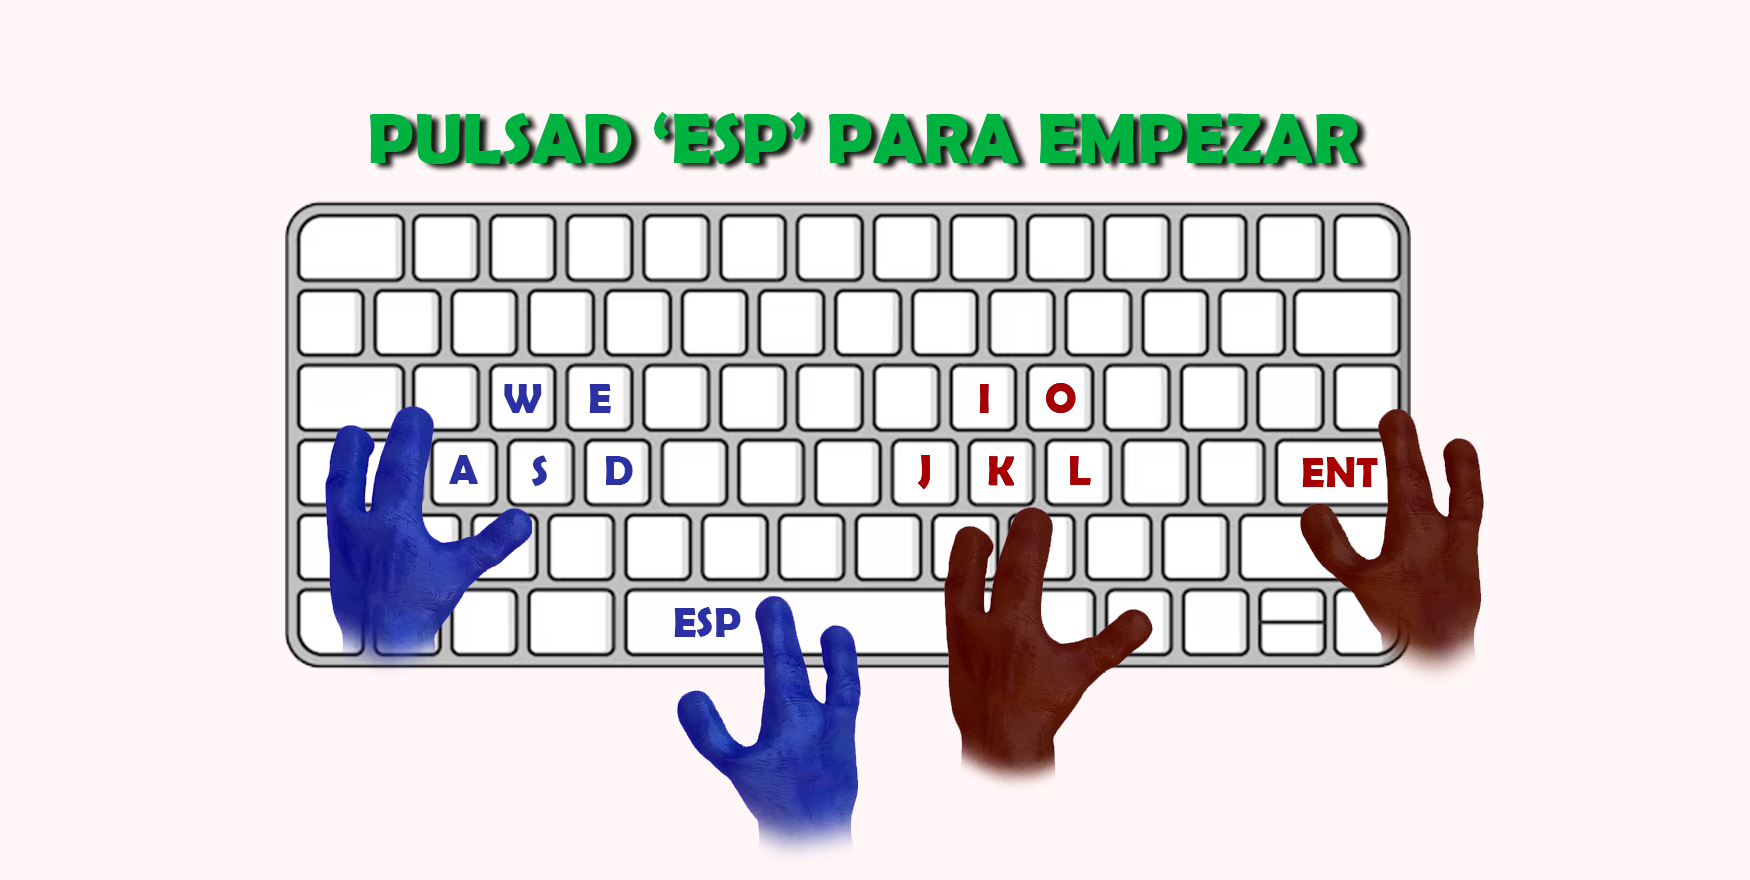
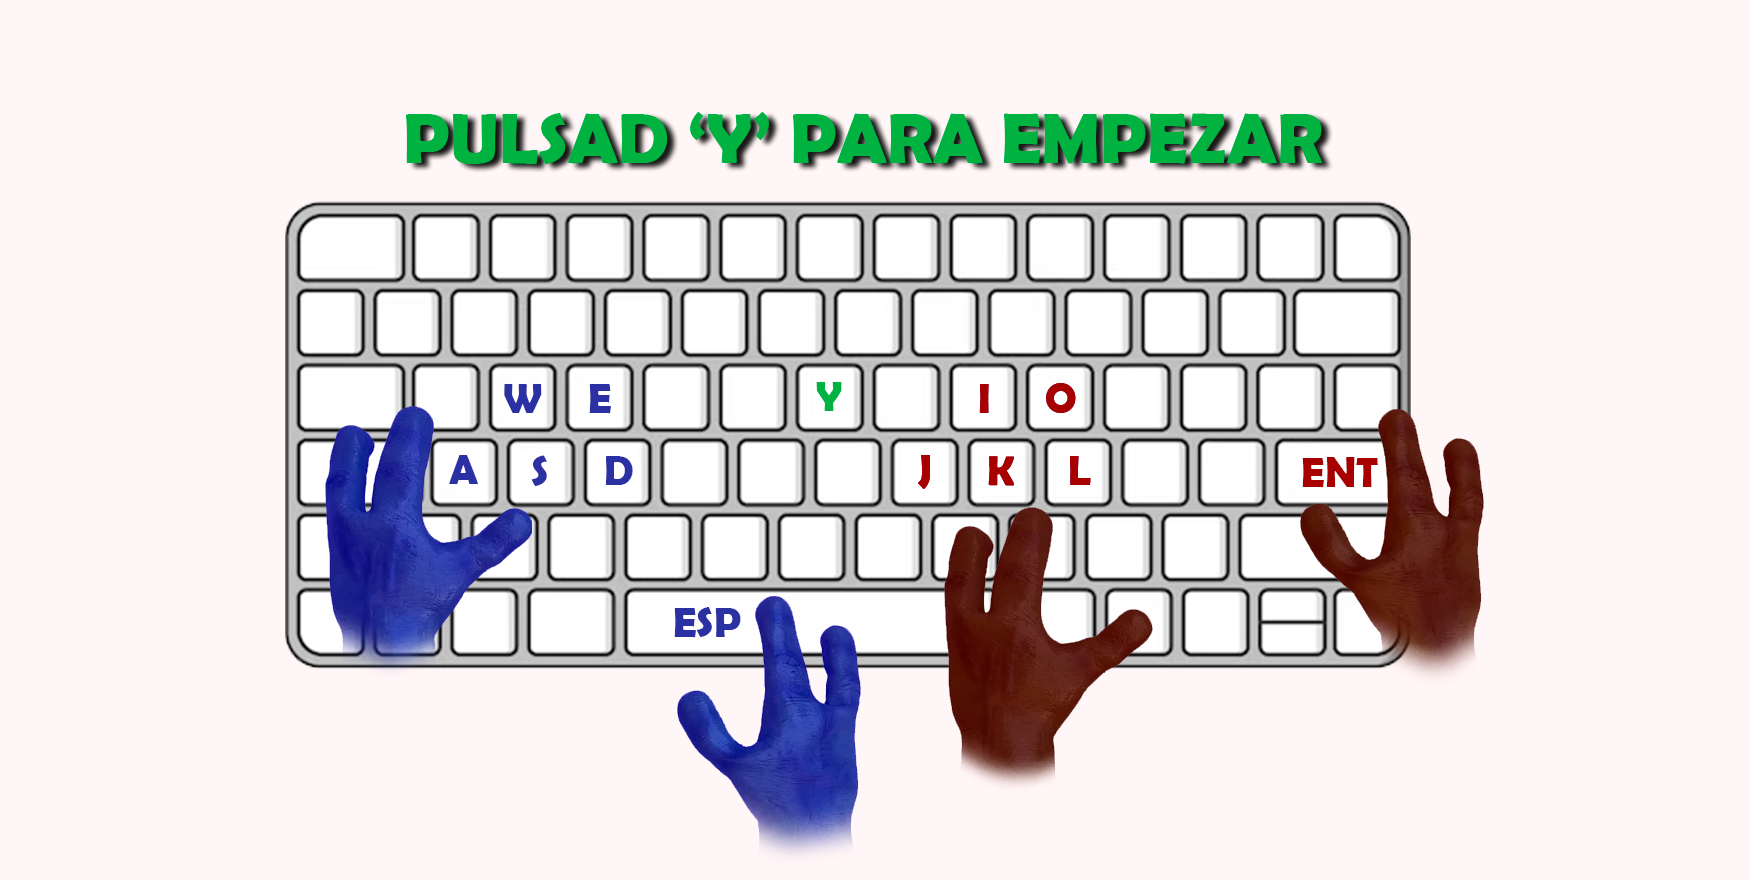
cambios pantallas finales

Changed region(s): [[0.1851, 0.1227, 0.8023, 0.2148], [0.4629, 0.4295, 0.4937, 0.4602]]

diff --git a/AlienRush/src/main/resources/static/MainGame.js b/AlienRush/src/main/resources/static/MainGame.js
@@ -262,8 +262,8 @@ var MainGame = new Phaser.Class({
         PowerUp2.alpha = 0
 
         // Instanciacion temporizador
-        this.tiempoRestante = 300; // 5 minutos en segundos
-        this.textoTemporizador = this.add.text(720, 30, 'Tiempo: 5:00', { fontSize: '70px', color: '#ffffff', fontFamily: 'Impact, fantasy' });
+        this.tiempoRestante = 120; // 5 minutos en segundos
+        this.textoTemporizador = this.add.text(720, 30, 'Tiempo: 2:00', { fontSize: '70px', color: '#ffffff', fontFamily: 'Impact, fantasy' });
 
         // Instanciacion Puntos
         Score1 = this.add.text(50, 140, '0', { fontSize: '70px', color: '#ffffff', fontFamily: 'Impact, fantasy' });
@@ -323,8 +323,8 @@ var MainGame = new Phaser.Class({
         this.keyESC = this.input.keyboard.addKey(Phaser.Input.Keyboard.KeyCodes.ESC);
         this.paused = false;
 
-        // Intro
-        this.keySPC = this.input.keyboard.addKey(Phaser.Input.Keyboard.KeyCodes.SPACE); // Registrar tecla ESPACIO
+        // Y
+        this.keyY = this.input.keyboard.addKey(Phaser.Input.Keyboard.KeyCodes.Y); 
 
[1 lines of base64/hex data omitted]
         function moverHumanosAleatoriamente() {
@@ -452,7 +452,7 @@ var MainGame = new Phaser.Class({
 
     update: function () {
         // Iniciar juego si no ha comenzado
-        if (!this.gameStarted && Phaser.Input.Keyboard.JustDown(this.keySPC)) {
+        if (!this.gameStarted && Phaser.Input.Keyboard.JustDown(this.keyY)) {
             this.iniciarJuego();
         }
     
@@ -616,6 +616,7 @@ var MainGame = new Phaser.Class({
         this.scene.start(escenaVictoria, {
             player1Score: player1.score,
             player2Score: player2.score,
+            fondo: this.fondo,
         });
     },
     

diff --git a/AlienRush/src/main/resources/static/Victoria1.js b/AlienRush/src/main/resources/static/Victoria1.js
@@ -8,10 +8,12 @@ var Victoria1 = new Phaser.Class({
     init: function(data){
         this.player1Score = data.player1Score;
         this.player2Score = data.player2Score;
+        this.fondo = data.fondo;
     },
 
     preload: function () {
-        this.load.image('fondoVictoria1', 'assets/Victoria1/fondoVictoria1.png');
+        this.load.image('PantallaPuntuacionCiudadAzul', 'assets/Victoria1/PantallaPuntuacionCiudadAzul.png');
+        this.load.image('PantallaPuntuacionGranjaAzul', 'assets/Victoria1/PantallaPuntuacionGranjaAzul.png');
         this.load.image('botonMenu', 'assets/Victoria1/BotonVMP.png');
         this.load.audio('musicaVictoria', 'audio/victoria.mp3');
     },
@@ -19,7 +21,12 @@ var Victoria1 = new Phaser.Class({
     create: function () {
         /************************* FONDO *************************/
         //IMAGEN
-        this.add.image(875, 440, 'fondoVictoria1');
+        if(this.fondo = "fondoGranja"){
+            this.add.image(875, 440, 'PantallaPuntuacionGranjaAzul');
+            
+        }else if(this.fondo = "fondoCiudad"){
+            this.add.image(875, 440, 'PantallaPuntuacionCiudadAzul');
+        }
 
         //TEXTO
         this.add.text(415, 610, `${this.player1Score}`, {

diff --git a/AlienRush/src/main/resources/static/Victoria2.js b/AlienRush/src/main/resources/static/Victoria2.js
@@ -11,7 +11,8 @@ var Victoria2 = new Phaser.Class({
     },
 
     preload: function () {
-        this.load.image('fondoVictoria2', 'assets/Victoria2/fondoVictoria2.png');
+        this.load.image('PantallaPuntuacionCiudadRojo', 'assets/Victoria1/PantallaPuntuacionCiudadRojo.png');
+        this.load.image('PantallaPuntuacionGranjaRojo', 'assets/Victoria1/PantallaPuntuacionGranjaRojo.png');
         this.load.image('botonMenu', 'assets/Victoria2/BotonVMP.png');
         this.load.audio('musicaVictoria', 'audio/victoria.mp3');
 
@@ -20,7 +21,12 @@ var Victoria2 = new Phaser.Class({
     create: function () {
         /************************* FONDO *************************/
         //IMAGEN
-        this.add.image(875, 440, 'fondoVictoria2');
+        if(this.fondo = "fondoGranja"){
+            this.add.image(875, 440, 'PantallaPuntuacionGranjaRojo');
+            
+        }else if(this.fondo = "fondoCiudad"){
+            this.add.image(875, 440, 'PantallaPuntuacionCiudadRojo');
+        }
 
         //TEXTO
         this.add.text(415, 610, `${this.player1Score}`, {

diff --git a/AlienRush/src/main/resources/static/index.html b/AlienRush/src/main/resources/static/index.html
@@ -68,7 +68,7 @@
             <h1>¿CÓMO JUGAR?</h1>
             <div class="controles">
                 <h2>En local</h2>
-                <img src="assets/Partida/controles.png" alt="humanos">
+                <img src="assets/Partida/controles.png" alt="humanos" style="width: 95%;">
             </div>
         </section>
     
